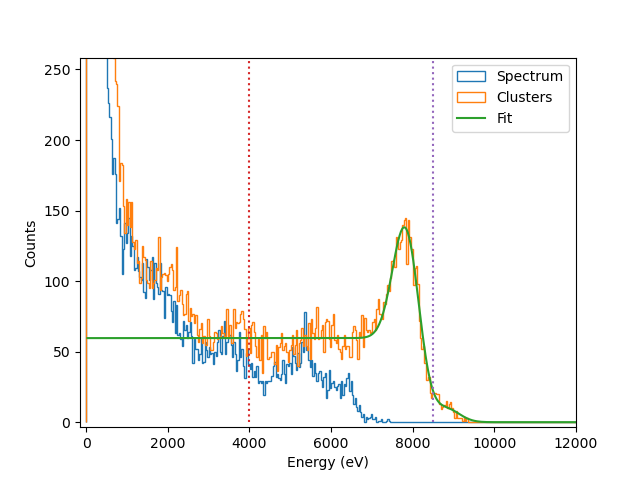
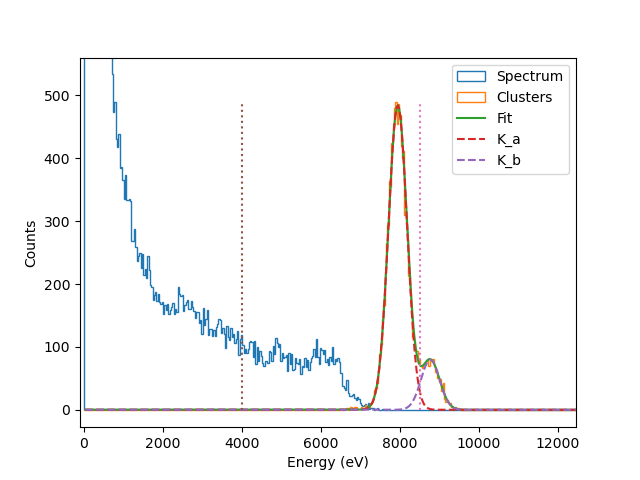
cluster

diff --git a/charge_sharing_simulation.py b/charge_sharing_simulation.py
@@ -103,7 +103,7 @@ def Cu_Fluo(pp = 150, intr_nois = 50*3.6):
     fig2, sub2 = plt.subplots()
 
     print('Pixel pitch:', pp, 'um')
-    array_s = 6
+    array_s = 4
     nop = 1000
     ev_mult = 10
     Pgridx = np.random.uniform(0.*pp,(array_s-0.)*pp, size=nop) # np.arange(-0.25*pp,+1.25*pp,0.1*pp)
@@ -124,8 +124,8 @@ def Cu_Fluo(pp = 150, intr_nois = 50*3.6):
     print('Energy resolution:', sigmaeV, 'eV')
     print('Intrinsic noise:', intr_nois, 'eV')
     print('Threshold disperion:', thre_disp, 'eV')
-    #energy = np.array([8046 if np.random.uniform(0,1) > 0.12 else 8904 for i in range(nop)]) #Cu fluo 
-    energy = np.array([8046 if np.random.uniform(0,1) > 0.05 else 8904 for i in range(nop)]) #Cu ka
+    energy = np.array([8046 if np.random.uniform(0,1) > 0.12 else 8904 for i in range(nop)]) #Cu fluo 
+    #energy = np.array([8046 if np.random.uniform(0,1) > 0.05 else 8904 for i in range(nop)]) #Cu ka
     #energy = [6405 if np.random.uniform(0,1) > 0.12 else 7059 for i in range(nop)] #Fe fluo 
     charges = [[] for i in range(array_s*array_s)]
     cluster = []
@@ -283,13 +283,21 @@ def Cu_Fluo(pp = 150, intr_nois = 50*3.6):
 
     #cluster = np.sum(charges,axis=0)
     cluster = []
-    for i in range(array_s-1):
-        for j in range(array_s-1):
-            indexes = [[i,j],[i+1,j],[i,j+1],[i+1,j+1]]
-            lin_indexes = [ int(x*array_s+y) for x,y in indexes] 
-            # print(i,j,indexes, lin_indexes)
-            cluster.extend( np.sum([charges[jj] for jj in lin_indexes], axis=0)) 
-            
+    # for i in range(array_s-1):
+    #     for j in range(array_s-1):
+    #         indexes = [[i,j],[i+1,j],[i,j+1],[i+1,j+1]]
+    #         lin_indexes = [ int(x*array_s+y) for x,y in indexes] 
+    #         # print(i,j,indexes, lin_indexes)
+    #         cluster.extend( np.sum([charges[jj] for jj in lin_indexes], axis=0)) 
+
+    charges_v = np.array(charges)
+    for j in range(nop*ev_mult):
+        # print(charges_v[:,j])
+        # print(np.sort(charges_v[:,j]))
+        # print(np.sort(charges_v[:,j])[-4:])
+        # print(np.sum(np.sort(charges_v[:,j])[-4:]))
+        cluster.append(np.sum(np.sort(charges_v[:,j])[-4:]))
+
     # print('Charges:', np.shape(charges))
     # print('Cluster:', np.shape(cluster))
 
@@ -301,17 +309,19 @@ def Cu_Fluo(pp = 150, intr_nois = 50*3.6):
     print('X1:', parama[0]+parama[4])
     print('CS:', parama[3])
 
-    sub2.plot(ba[1:], gauss_box(ba[1:],parama[0],parama[1],parama[2],parama[3],parama[4],parama[5]),'-',label='Fit')
-    sub2.plot(ba[1:], gauss1d(ba[1:],parama[0],parama[1],parama[2]),'--', label='K_a')
-    sub2.plot(ba[1:], gauss1d(ba[1:],parama[0]+parama[4],parama[1],parama[5]),'--', label='K_b')
-    sub2.plot(ba[1:], box(ba[1:],parama[0],parama[1],parama[3]),'--', label='Charge sharing')
+    # sub2.plot(ba[1:], gauss_box(ba[1:],parama[0],parama[1],parama[2],parama[3],parama[4],parama[5]),'-',label='Fit')
+    # sub2.plot(ba[1:], gauss1d(ba[1:],parama[0],parama[1],parama[2]),'--', label='K_a')
+    # sub2.plot(ba[1:], gauss1d(ba[1:],parama[0]+parama[4],parama[1],parama[5]),'--', label='K_b')
+    # sub2.plot(ba[1:], box(ba[1:],parama[0],parama[1],parama[3]),'--', label='Charge sharing')
 
     nc,bc,pc = sub2.hist(cluster, bins=400, range=(0*np.min(energy),1.5*np.max(energy)),histtype='step', label='Clusters')
     paramc, covc = optimize.curve_fit(gauss_box,bc[xmin+1:],nc[xmin:],
                          p0=[8046,sigmaeV,nop,10,1000,nop/5],
                          bounds=[[0,0,0,0,500,0],[9000,1e3,1e6,1e6,1500,1e6]])
     #print(paramc)
-    #sub2.plot(bc[1:], gauss_box(bc[1:],paramc[0],paramc[1],paramc[2],paramc[3],paramc[4],paramc[5]),'-', label='Fit')
+    sub2.plot(bc[1:], gauss_box(bc[1:],paramc[0],paramc[1],paramc[2],paramc[3],paramc[4],paramc[5]),'-', label='Fit')
+    sub2.plot(bc[1:], gauss1d(bc[1:],paramc[0],paramc[1],paramc[2]),'--', label='K_a')
+    sub2.plot(bc[1:], gauss1d(bc[1:],paramc[0]+paramc[4],paramc[1],paramc[5]),'--', label='K_b')
     sub2.plot([thr0,thr0],[0,np.max(nc)],':')
     sub2.plot([thr1,thr1],[0,np.max(nc)],':')
 
